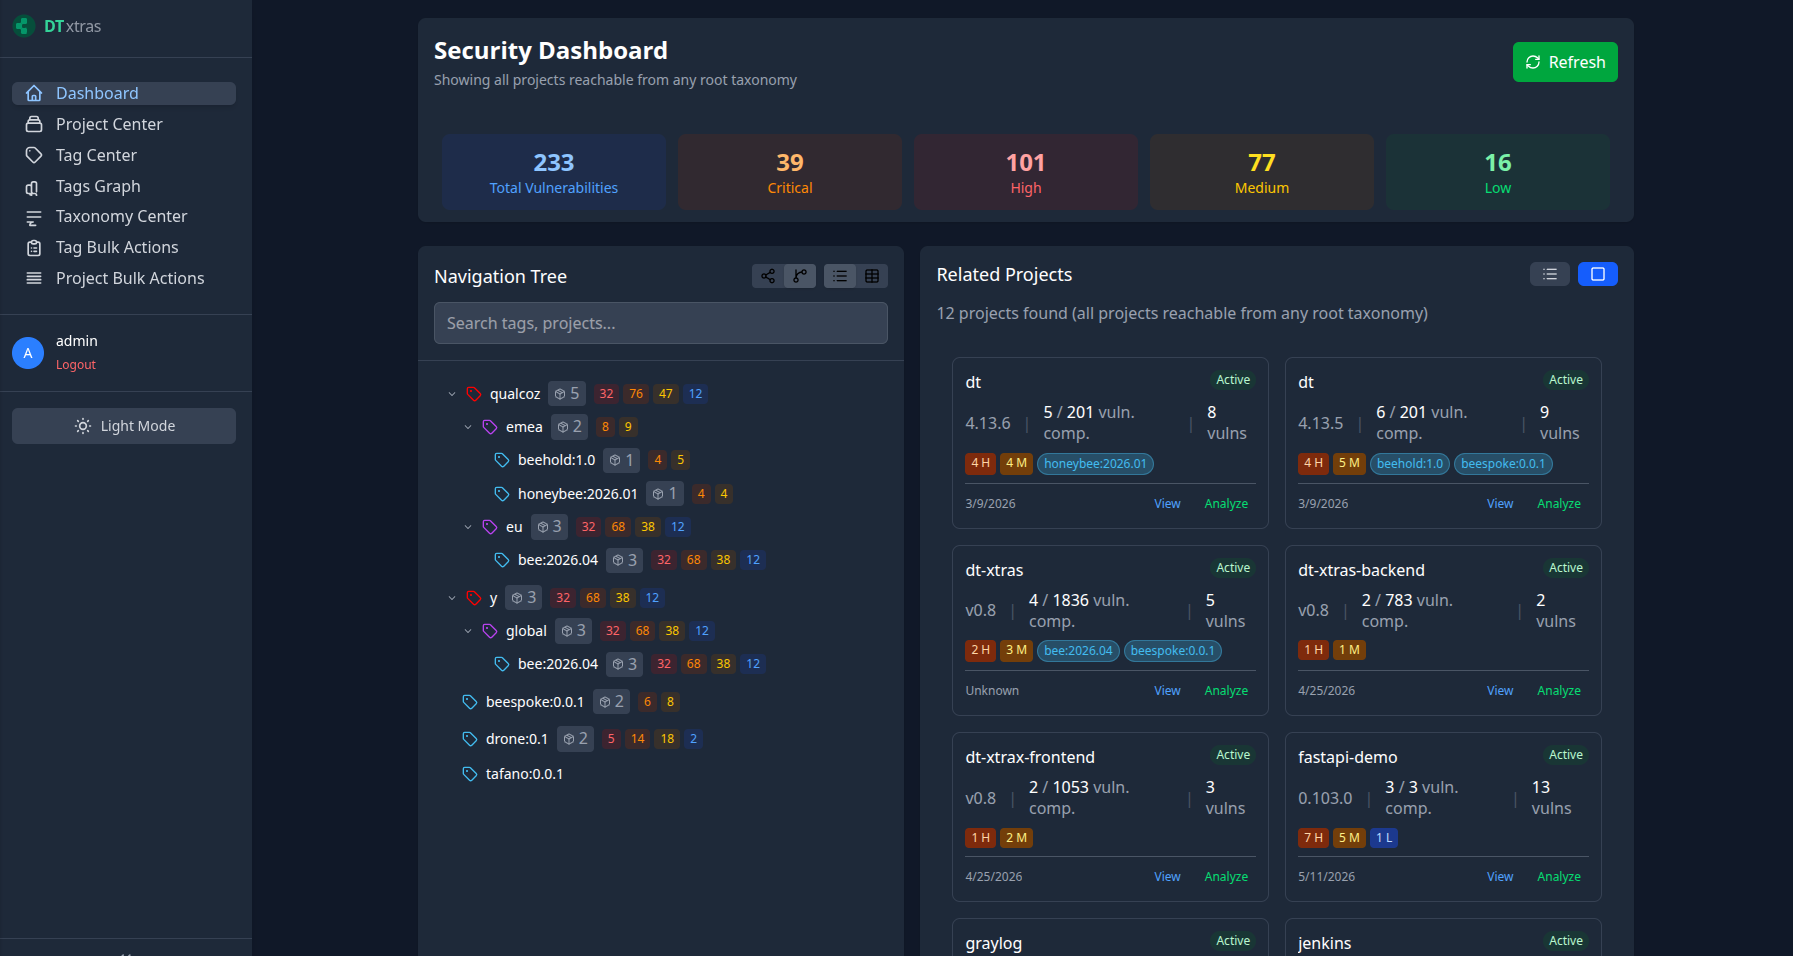
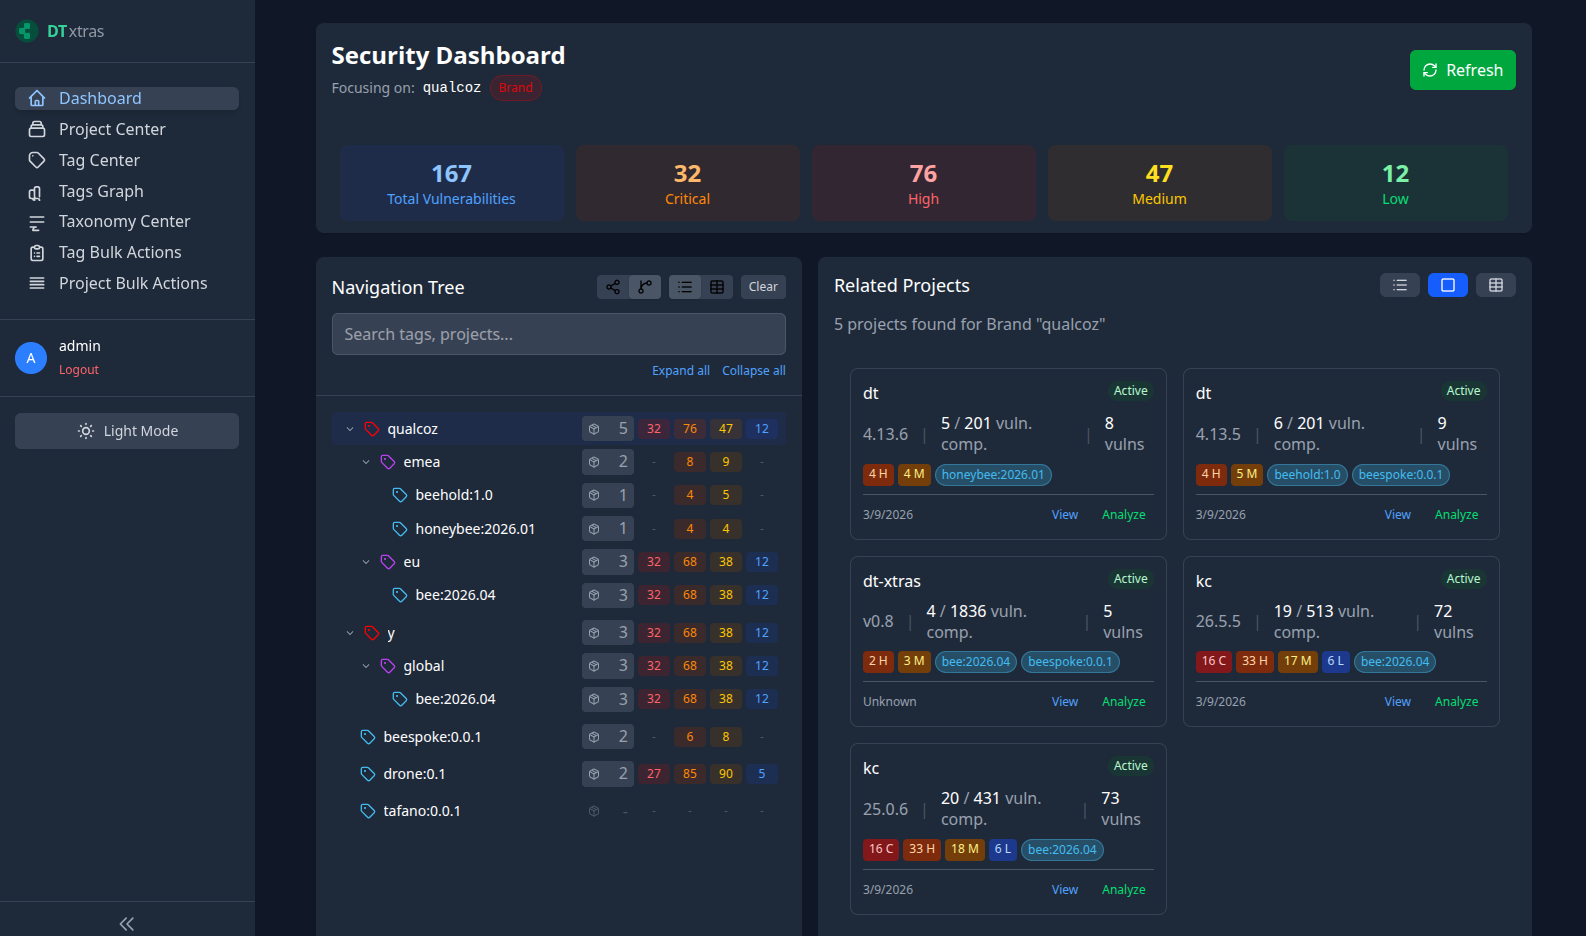
feat: use datagrid for dashboard

diff --git a/frontend/src/components/Dashboard.vue b/frontend/src/components/Dashboard.vue
@@ -112,8 +112,21 @@
                       ? 'bg-blue-600 text-white'
                       : 'bg-gray-200 text-gray-700 dark:bg-gray-700 dark:text-gray-300'
                   ]"
+                  title="Card view"
                 >
                   <SquareIcon class="w-4 h-4" />
+                </button>
+                <button
+                  @click="projectsViewMode = 'table'"
+                  :class="[
+                    'px-3 py-1 text-sm rounded-md cursor-pointer hover:shadow-md transition-all',
+                    projectsViewMode === 'table'
+                      ? 'bg-blue-600 text-white'
+                      : 'bg-gray-200 text-gray-700 dark:bg-gray-700 dark:text-gray-300'
+                  ]"
+                  title="Table view (sortable)"
+                >
+                  <Table class="w-4 h-4" />
                 </button>
               </div>
             </div>
@@ -242,6 +255,51 @@
                       @analyze="analyzeProject"
                     />
                   </div>
+                </div>
+              </div>
+
+              <!-- Table View (sortable; related projects are in-memory, so sort
+                   is client-side over the whole set, then paginated) -->
+              <div v-else-if="projectsViewMode === 'table'" class="h-full flex flex-col">
+                <div class="flex-1 overflow-auto p-4">
+                  <table class="w-full text-sm">
+                    <thead>
+                      <tr class="text-left text-gray-500 dark:text-gray-400 border-b border-gray-200 dark:border-gray-600">
+                        <th @click="setProjectsSort('name')" class="py-2 px-2 cursor-pointer select-none whitespace-nowrap" title="Sort by name">
+                          Name<span class="ml-1">{{ projectsSortIcon('name') }}</span>
+                        </th>
+                        <th @click="setProjectsSort('version')" class="py-2 px-2 cursor-pointer select-none whitespace-nowrap" title="Sort by version">
+                          Version<span class="ml-1">{{ projectsSortIcon('version') }}</span>
+                        </th>
+                        <th @click="setProjectsSort('lastActivity')" class="py-2 px-2 cursor-pointer select-none whitespace-nowrap" title="Sort by last activity">
+                          Last activity<span class="ml-1">{{ projectsSortIcon('lastActivity') }}</span>
+                        </th>
+                        <th @click="setProjectsSort('critical')" class="py-2 px-2 text-right cursor-pointer select-none" title="Critical">C<span class="ml-0.5">{{ projectsSortIcon('critical') }}</span></th>
+                        <th @click="setProjectsSort('high')" class="py-2 px-2 text-right cursor-pointer select-none" title="High">H<span class="ml-0.5">{{ projectsSortIcon('high') }}</span></th>
+                        <th @click="setProjectsSort('medium')" class="py-2 px-2 text-right cursor-pointer select-none" title="Medium">M<span class="ml-0.5">{{ projectsSortIcon('medium') }}</span></th>
+                        <th @click="setProjectsSort('low')" class="py-2 px-2 text-right cursor-pointer select-none" title="Low">L<span class="ml-0.5">{{ projectsSortIcon('low') }}</span></th>
+                        <th class="py-2 px-2"></th>
+                      </tr>
+                    </thead>
+                    <tbody>
+                      <tr
+                        v-for="project in projectTableRows"
+                        :key="project.uuid"
+                        class="border-b border-gray-100 dark:border-gray-700/60 hover:bg-gray-50 dark:hover:bg-gray-700/40"
+                      >
+                        <td class="py-2 px-2 font-medium text-gray-900 dark:text-white truncate max-w-xs" :title="project.name">{{ project.name }}</td>
+                        <td class="py-2 px-2 text-gray-600 dark:text-gray-400 whitespace-nowrap">{{ project.version || 'latest' }}</td>
+                        <td class="py-2 px-2 text-gray-600 dark:text-gray-400 whitespace-nowrap">{{ formatDate(project.lastActivity) }}</td>
+                        <td class="py-2 px-2 text-right tabular-nums" :class="project.metrics?.critical ? 'text-red-600 dark:text-red-400 font-medium' : 'text-gray-400 dark:text-gray-600'">{{ cellCount(project.metrics?.critical) }}</td>
+                        <td class="py-2 px-2 text-right tabular-nums" :class="project.metrics?.high ? 'text-orange-600 dark:text-orange-400 font-medium' : 'text-gray-400 dark:text-gray-600'">{{ cellCount(project.metrics?.high) }}</td>
+                        <td class="py-2 px-2 text-right tabular-nums" :class="project.metrics?.medium ? 'text-yellow-600 dark:text-yellow-400 font-medium' : 'text-gray-400 dark:text-gray-600'">{{ cellCount(project.metrics?.medium) }}</td>
+                        <td class="py-2 px-2 text-right tabular-nums" :class="project.metrics?.low ? 'text-blue-600 dark:text-blue-400 font-medium' : 'text-gray-400 dark:text-gray-600'">{{ cellCount(project.metrics?.low) }}</td>
+                        <td class="py-2 px-2 text-right whitespace-nowrap">
+                          <button @click="viewProject(project)" class="text-xs text-blue-600 dark:text-blue-400 hover:underline cursor-pointer">View</button>
+                        </td>
+                      </tr>
+                    </tbody>
+                  </table>
                 </div>
               </div>
             </div>
@@ -818,6 +876,42 @@ export default {
       return relatedProjects.value.slice(start, end)
     })
 
+    // Table view (client-side sort over the full related set, then paginate).
+    const projectsSortName = ref('')
+    const projectsSortOrder = ref('asc')
+    const SEVERITY_FIELDS = ['critical', 'high', 'medium', 'low']
+    const setProjectsSort = (field) => {
+      if (projectsSortName.value === field) {
+        projectsSortOrder.value = projectsSortOrder.value === 'asc' ? 'desc' : 'asc'
+      } else {
+        projectsSortName.value = field
+        projectsSortOrder.value = 'asc'
+      }
+      currentPage.value = 1
+    }
+    const projectsSortIcon = (field) => (projectsSortName.value === field ? (projectsSortOrder.value === 'asc' ? '▲' : '▼') : '')
+    const cellCount = (n) => (n > 0 ? n : '-')
+    const sortedRelatedProjects = computed(() => {
+      const list = [...(relatedProjects.value || [])]
+      const field = projectsSortName.value
+      if (!field) return list
+      const dir = projectsSortOrder.value === 'desc' ? -1 : 1
+      const numeric = SEVERITY_FIELDS.includes(field)
+      return list.sort((a, b) => {
+        if (numeric) {
+          return ((a.metrics?.[field] || 0) - (b.metrics?.[field] || 0)) * dir
+        }
+        const av = (a[field] ?? '').toString().toLowerCase()
+        const bv = (b[field] ?? '').toString().toLowerCase()
+        return av < bv ? -dir : av > bv ? dir : 0
+      })
+    })
+    const projectTableRows = computed(() => {
+      if (!currentPage.value || !pageSize.value) return []
+      const start = (currentPage.value - 1) * pageSize.value
+      return sortedRelatedProjects.value.slice(start, start + pageSize.value)
+    })
+
     return {
       // Coordinated loading state
       shouldShowLoading,
@@ -848,6 +942,13 @@ export default {
       // Project data
       relatedProjects,
       paginatedProjects,
+      projectTableRows,
+      projectsSortName,
+      projectsSortOrder,
+      setProjectsSort,
+      projectsSortIcon,
+      cellCount,
+      formatDate,
       filteredSecurityData,
       totalVulnerabilities,
       criticalVulns,
